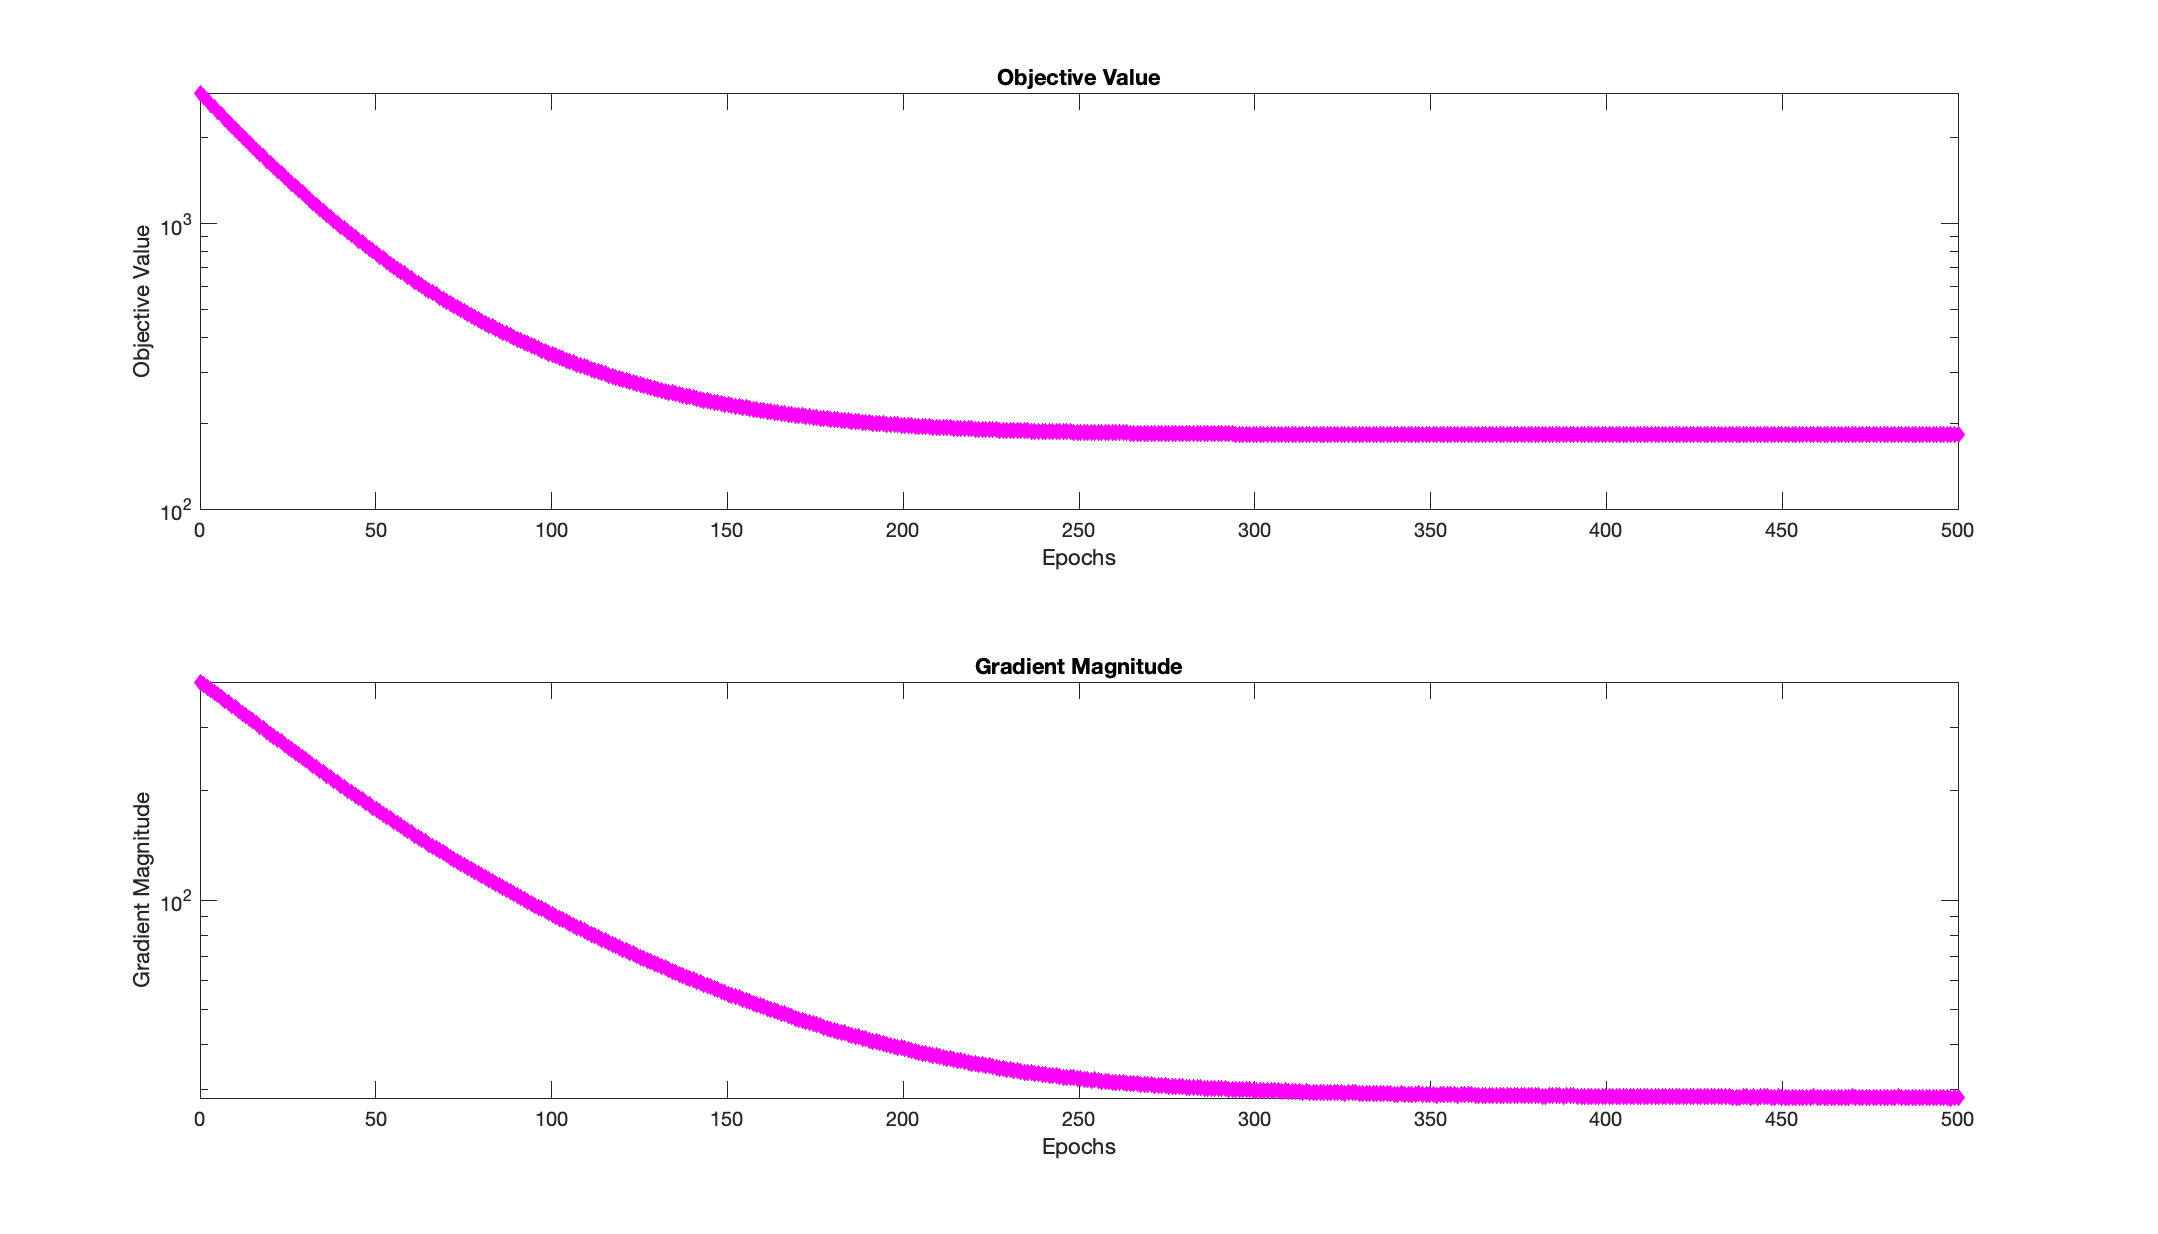
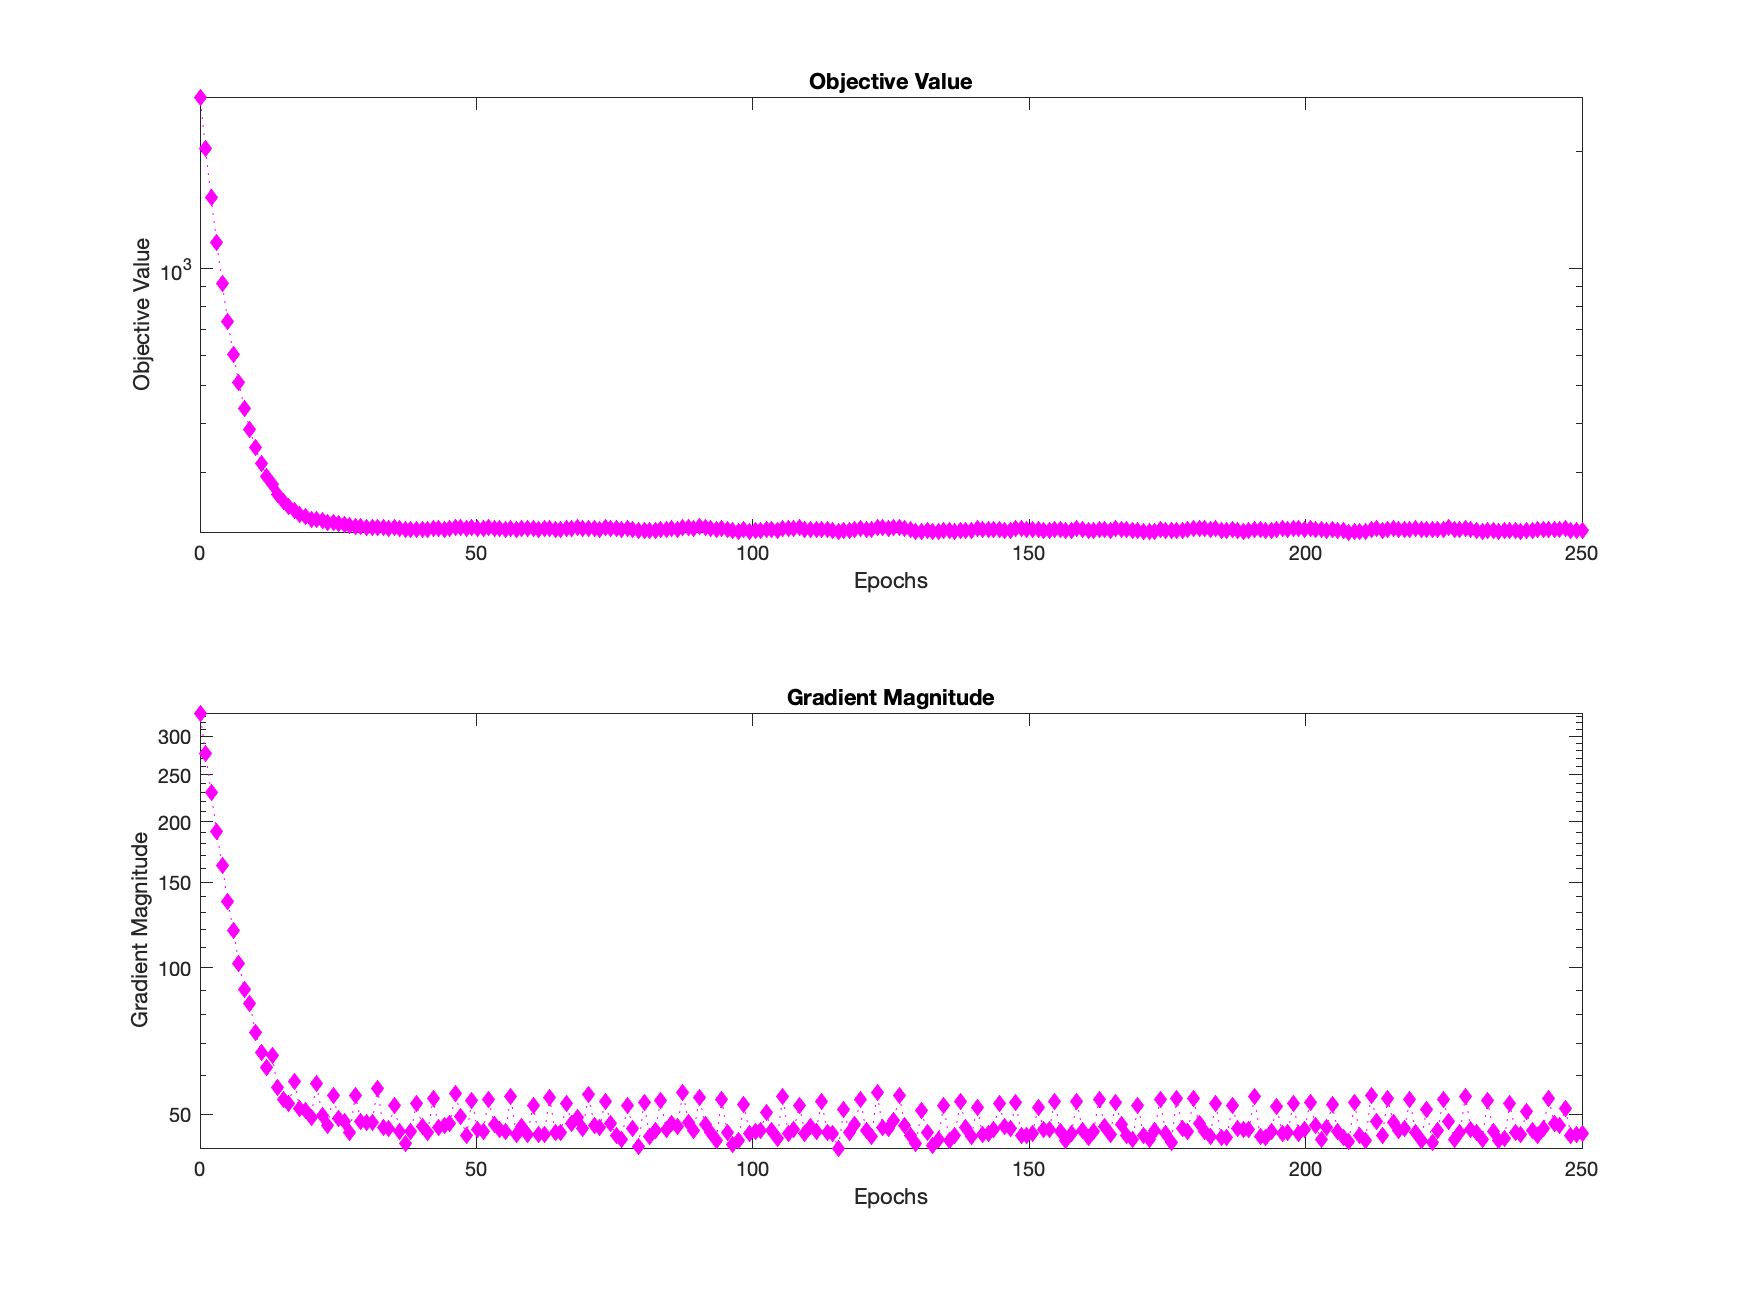
Update GD and SGD parameters for cora.

diff --git a/non_smooth_helpers/pslSGD.m b/non_smooth_helpers/pslSGD.m
@@ -13,7 +13,7 @@ function [x, objectives, gradients] = pslSGD(potentials, num_epochs, step_size_0
     
     % Loop for num_epochs.
     for i=1: num_epochs
-        step_size =  step_size_0 / i;
+        step_size =  step_size_0 / (i);
         % compute objective and gradient.
         [objectives(i), gradients(i, :)] = computeObjectiveAndGradient(potentials, x(i, :));
         % copy previous epoch location.
@@ -32,7 +32,7 @@ function [x, objectives, gradients] = pslSGD(potentials, num_epochs, step_size_0
             % SGD step.
             x(i + 1, potential_indices) = x(i + 1, potential_indices).' - step_size * gradient;
             % Clip for box constraints.
-            x(i + 1, potential_indices) = min(max(min(x(i + 1, potential_indices), 1), 0), 1);
+            x(i + 1, potential_indices) = max(min(x(i + 1, potential_indices), 1), 0);
         end
     end
 end

diff --git a/non_smooth_helpers/pslGD.m b/non_smooth_helpers/pslGD.m
@@ -1,4 +1,4 @@
-function [x, objectives, gradients] = pslGD(potentials, num_epochs, step_size, x0)
+function [x, objectives, gradients] = pslGD(potentials, num_epochs, step_size_0, x0)
 % pslGD: Performs gradient descent on the inference problem defined by the 
 %  provided potentials. Note that this implementation assumes that the 
 %  [0,1] box constraints are the only constraints of the problem.
@@ -13,7 +13,7 @@ function [x, objectives, gradients] = pslGD(potentials, num_epochs, step_size, x
 
     % Loop for num_epochs.
     for i=1: num_epochs
-        step_size = step_size / i;
+        step_size = step_size_0 / i;
         % compute objective and gradient.
         [objectives(i), gradients(i, :)] = parallelComputeObjectiveAndGradient(potentials, x(i, :));
         % GD step.

diff --git a/non_smooth_psl_optimization_example.m b/non_smooth_psl_optimization_example.m
@@ -30,7 +30,7 @@ potentials = [hinge_potentials; square_hinge_potentials; linear_potentials; quad
 x0 = rand(meta_data.Num_Variables, 1);
 
 %% Example SGD Implementation.
-num_epochs = 25;
+num_epochs = 250;
 step_size = 0.01;
 
 % Relax Constraints and add to potentials.
@@ -71,8 +71,8 @@ set(gca, 'YScale', 'log')
 saveas(gcf, sprintf('figures/%s_sgd_convergence.png', example_name));
 
 %% Example GD Implementation.
-num_epochs = 25;
-step_size = 0.01;
+num_epochs = 50;
+step_size = 0.1;
 
 % Relax Constraints and add to potentials.
 if height(constraints) > 0
